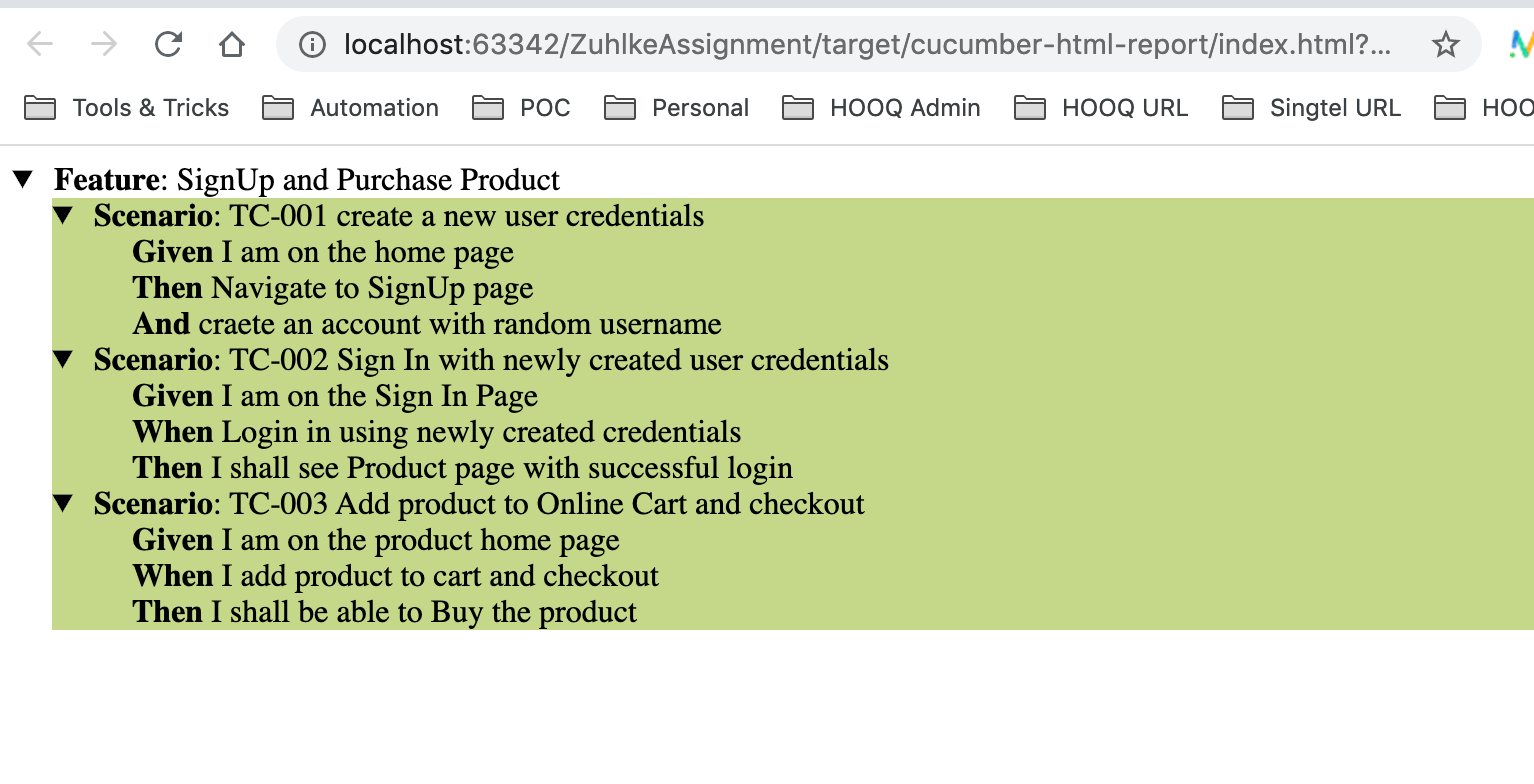
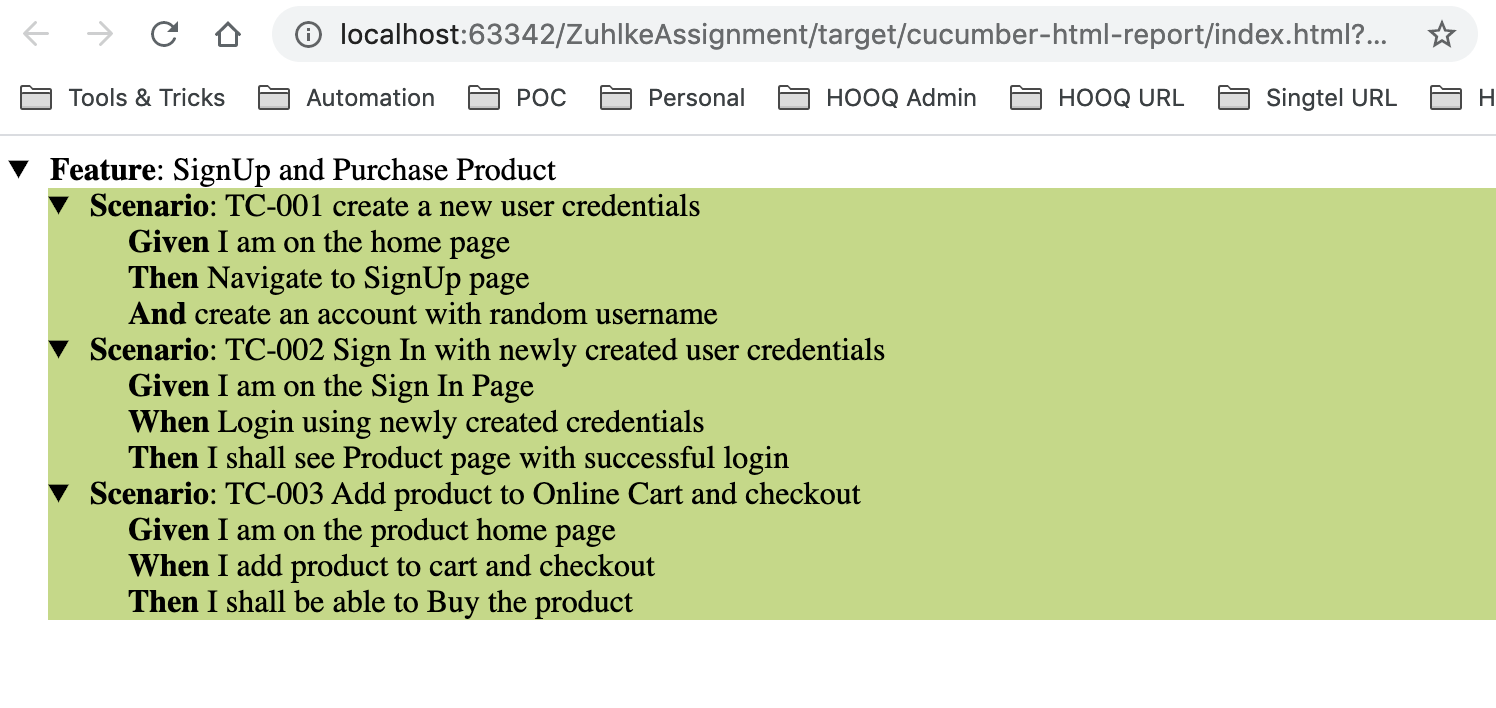
update image

Changed region(s): [[0.0, 0.1864, 1.0, 0.9011], [0.0, 0.0, 1.0, 0.0932], [0.0, 0.1243, 1.0, 0.1554]]

diff --git a/src/test/java/zuhlke/stepDefinations/SignUpAndSignIn.java b/src/test/java/zuhlke/stepDefinations/SignUpAndSignIn.java
@@ -31,7 +31,7 @@ public class SignUpAndSignIn {
 
     }
 
-    @Then("craete an account with random username")
+    @Then("create an account with random username")
     public void craete_an_account_with_random_username() throws Exception{
 
         pagefactory.getCreateNewAccoutPage().createAccountForNewUser();
@@ -44,7 +44,7 @@ public class SignUpAndSignIn {
         pagefactory.getSigninPage().verifySignInPage();
     }
 
-    @When("Login in using newly created credentials")
+    @When("Login using newly created credentials")
     public void login_in_using_newly_created_credentials() {
         pagefactory.getSigninPage().SignInExistingUser( pagefactory.getSigninPage().enterEmailaddress,"Password");
     }
